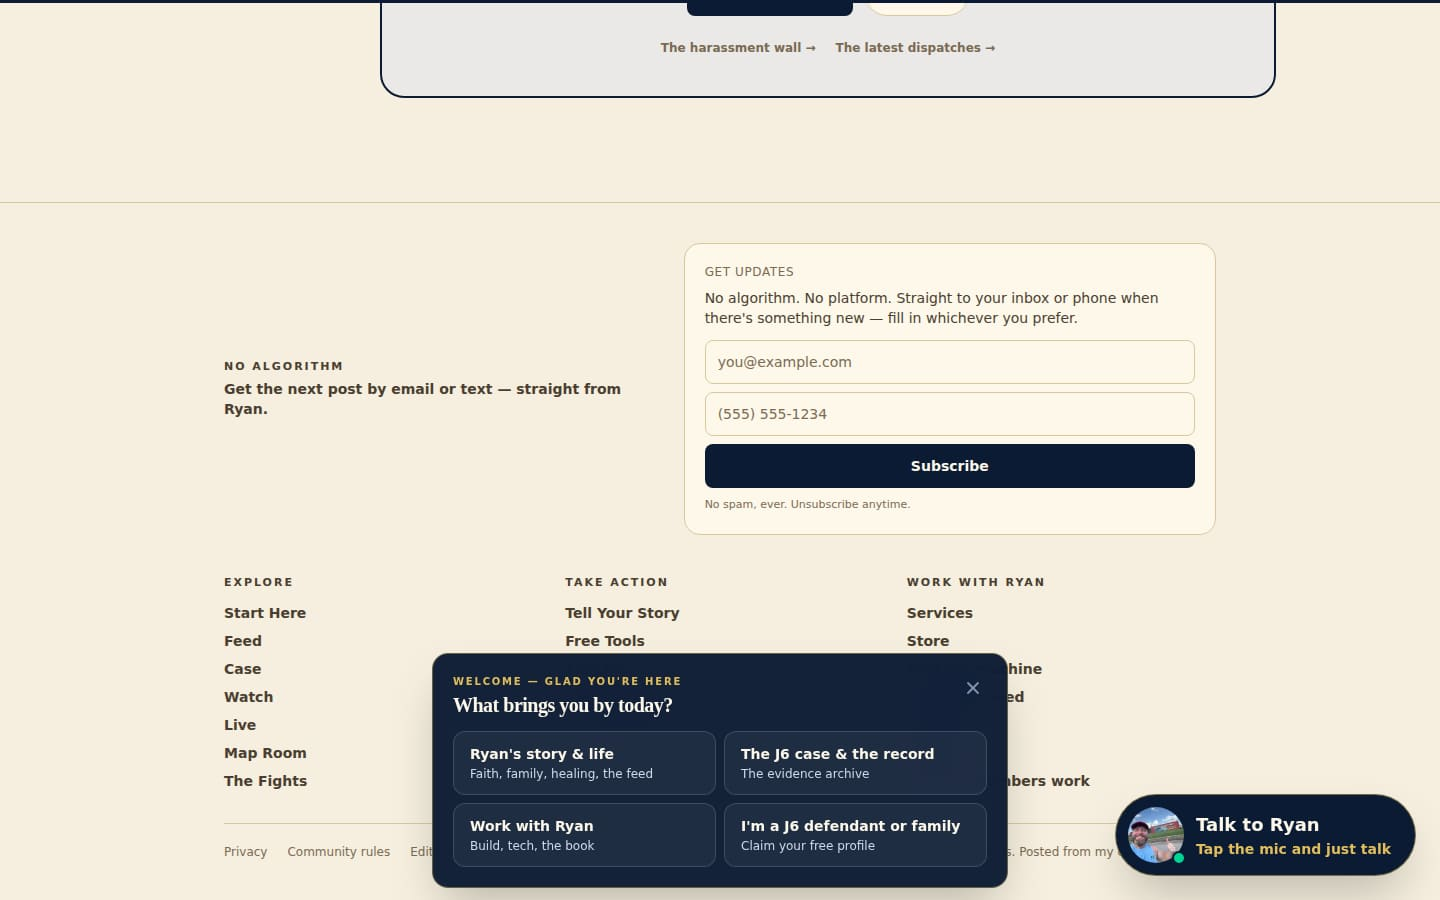
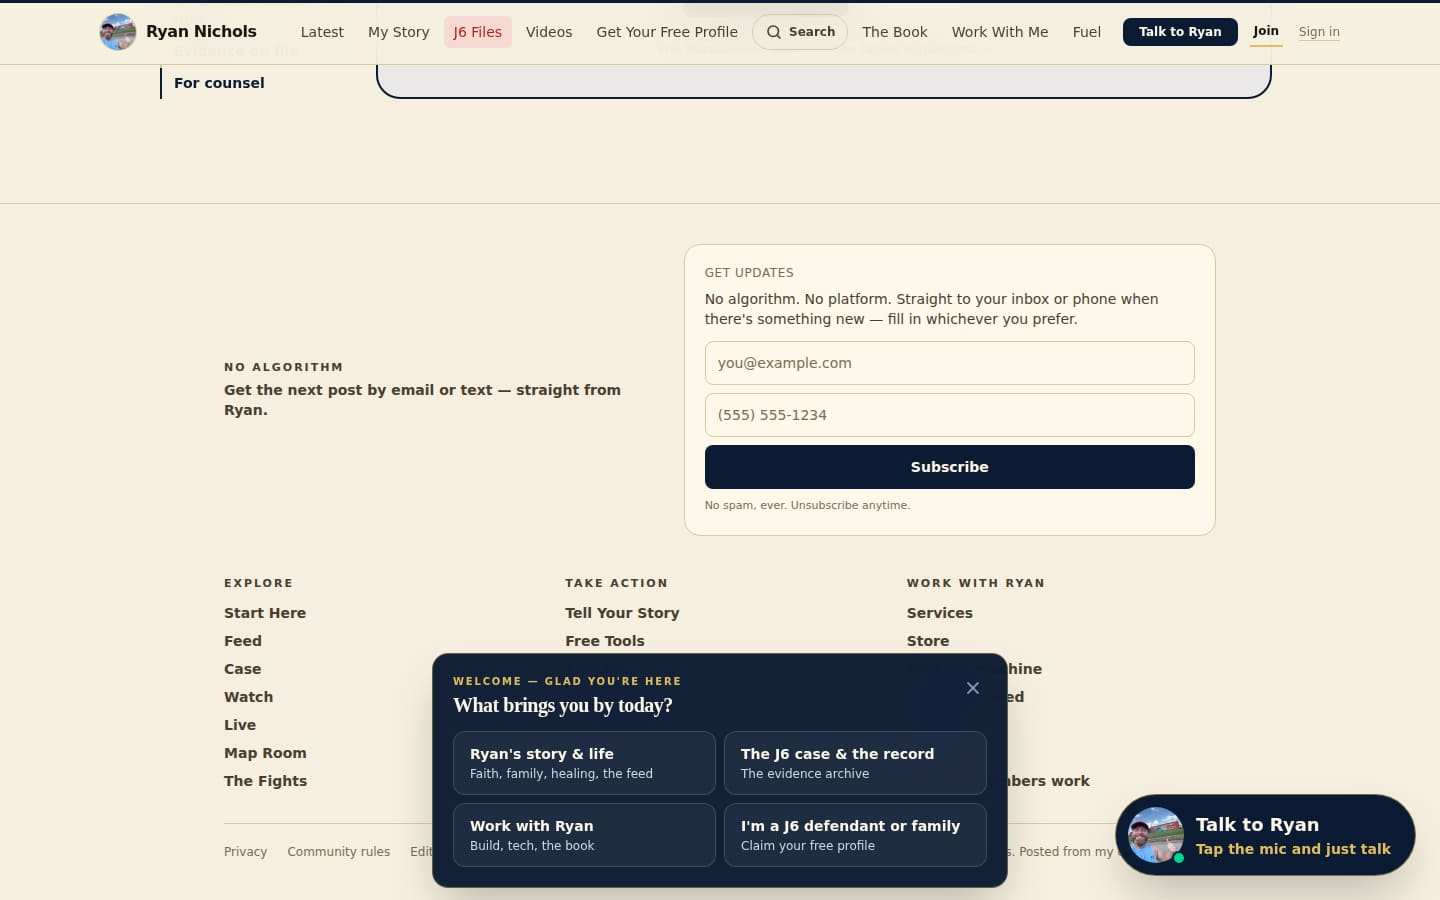
Move 3 review fixes: sticky actually sticks, nav matches the page, one eyebrow
- app/globals.css: `overflow-x: hidden` on html/body and main turned them
  into scroll containers, so every position: sticky on the site (the
  header, the new chapter rail) stuck to nothing. Add `overflow-x: clip`
  after each `hidden` (hidden stays as the fallback). Measured after a
  1,500px scroll: header 0, rail 96 (were -1467 / -1306).
- CaseChapterNav: `chapters` prop so the page passes exactly the stops it
  rendered (Chapter Four is conditional on titled dispatches); `relative`
  on the chip row so offsetLeft is measured against the row; the chip
  auto-scroll honors prefers-reduced-motion.
- Eyebrow: `tone` (navy | blue | cream) so the blue cards and the navy
  band use the shared component too; the facilities label and the
  evidence section header use Eyebrow / ChapterHeader; Chapter Three's
  label reuses the formatted day count; the split paragraph sits as a
  note under the subtitle.
- Chapter Two subtitle: "with the paper linked where the archive has it"
  (the previous wording implied entries without a link have no paper).
- Drop the no-op lg:justify-center on the article grid.
- docs/qa/case/move-3/: refreshed after-shots.

Claude-Session: https://claude.ai/code/session_013yY82UKXnA5A6346PxQm9y

diff --git a/website/components/RyanCaseProfile.tsx b/website/components/RyanCaseProfile.tsx
@@ -10,6 +10,7 @@ import { CaseStats } from "@/components/CaseStats";
 import { CaseHero } from "@/components/case/CaseHero";
 import { CaseStatCards } from "@/components/case/CaseStatCards";
 import { CaseChapterNav } from "@/components/case/CaseChapterNav";
+import { CASE_CHAPTERS } from "@/components/case/chapters";
 import { ChapterHeader, Eyebrow } from "@/components/case/ChapterHeader";
 import { EvidenceGrid } from "@/components/EvidenceGrid";
 import { ReactionBar } from "@/components/ReactionBar";
@@ -73,6 +74,12 @@ export function RyanCaseProfile({
   rail?: React.ReactNode;
 }) {
   const titledPosts = posts.filter((p) => p.title && p.title.trim()).slice(0, 6);
+  // Chapter Four only renders when there are titled dispatches; the nav
+  // gets exactly the stops the page renders.
+  const chapters =
+    titledPosts.length > 0
+      ? CASE_CHAPTERS
+      : CASE_CHAPTERS.filter((c) => c.id !== "chapter-four");
 
   // Structured data: extend the site-wide Person entity (declared in the root
   // layout by @id) with case-specific detail, mark this page as his profile,
@@ -183,10 +190,10 @@ export function RyanCaseProfile({
     // From lg up the story gets a spine: a sticky chapter rail in a narrow
     // left column, the record in the right. Below lg the rail is gone and
     // the chip row under the hero carries the chapters instead.
-    <article className="mx-auto max-w-4xl px-4 py-10 lg:grid lg:max-w-6xl lg:grid-cols-[11rem_minmax(0,56rem)] lg:justify-center lg:gap-10">
+    <article className="mx-auto max-w-4xl px-4 py-10 lg:grid lg:max-w-6xl lg:grid-cols-[11rem_minmax(0,56rem)] lg:gap-10">
       <aside className="hidden lg:block">
         <div className="sticky top-24">
-          <CaseChapterNav variant="rail" />
+          <CaseChapterNav variant="rail" chapters={chapters} />
         </div>
       </aside>
 
@@ -216,7 +223,7 @@ export function RyanCaseProfile({
       {/* The spine on a phone: the chapters as a scrollable chip row, in
           flow under the hero. The desktop rail lives in the left column. */}
       <div className="mt-5 lg:hidden">
-        <CaseChapterNav variant="chips" />
+        <CaseChapterNav variant="chips" chapters={chapters} />
       </div>
 
       {/* The two doors as the return rail, when this page is /case itself. */}
@@ -409,9 +416,7 @@ export function RyanCaseProfile({
 
         {/* Recognition */}
         <div className="mt-8 rounded-2xl border-2 border-[var(--color-blue)] bg-[var(--color-blue-soft)] p-5 sm:p-6">
-          <p className="text-[11px] uppercase tracking-[0.2em] text-[var(--color-blue)] font-bold">
-            Recognized for the rescues
-          </p>
+          <Eyebrow tone="blue">Recognized for the rescues</Eyebrow>
           <div className="mt-3 flex flex-wrap gap-2">
             {RECOGNITION.map((r) => (
               <Link
@@ -452,7 +457,7 @@ export function RyanCaseProfile({
           n="Two"
           label="The case, start to finish"
           title="Arrested. Convicted. Pardoned."
-          subtitle="From the arrest in the Eastern District of Texas to the dismissal with prejudice, in order, with the paper where it exists."
+          subtitle="From the arrest in the Eastern District of Texas to the dismissal with prejudice, in order, with the paper linked where the archive has it."
         />
         <ol className="mt-5 relative border-l-2 border-[var(--color-line)] ml-3 space-y-5">
           {[
@@ -530,11 +535,11 @@ export function RyanCaseProfile({
       <section id="chapter-three" className="mt-12 scroll-mt-24 border-t-2 border-[var(--color-line)] pt-10">
         <ChapterHeader
           n="Three"
-          label={`The detention record — ${totals.daysArrestToPardon.toLocaleString("en-US")} days, arrest to pardon`}
+          label={`The detention record — ${days} days, arrest to pardon`}
           title="Not memoir. Paper."
           subtitle="What happened between arrest and pardon is not a story he tells — it is a file he built, one exhibit at a time, from inside."
         />
-        <p className="mt-2 text-sm text-[var(--color-ink-soft)] max-w-2xl leading-relaxed">
+        <p className="mt-3 text-sm text-[var(--color-ink-soft)] max-w-2xl leading-relaxed">
           Every entry below
           carries an exhibit number from the master archive or lives in the{" "}
           <Link href="/case?view=documents" className="text-[var(--color-navy)] font-semibold hover:underline">
@@ -668,9 +673,7 @@ export function RyanCaseProfile({
         </div>
 
         <div className="mt-6 rounded-2xl bg-[var(--color-surface-2)] p-4 sm:p-5">
-          <p className="text-[10px] uppercase tracking-wider font-bold text-[var(--color-navy)]">
-            The {totals.facilities} facilities, as he lists them
-          </p>
+          <Eyebrow>The {totals.facilities} facilities, as he lists them</Eyebrow>
           <div className="mt-2 flex flex-wrap gap-1.5">
             {[
               "Tyler, TX (E.D. Tex.)",
@@ -702,9 +705,7 @@ export function RyanCaseProfile({
 
         {/* Statement intake — the archive grows one account at a time. */}
         <div className="mt-8 rounded-2xl bg-[var(--color-navy)] p-6 sm:p-8 text-[#fdf8ea]">
-          <p className="text-[11px] uppercase tracking-[0.2em] font-bold text-[#8194b4]">
-            Statement intake
-          </p>
+          <Eyebrow tone="cream">Statement intake</Eyebrow>
           <h3 className="mt-1 text-2xl sm:text-3xl font-bold tracking-tight font-display text-[#fdf8ea]">
             Were you there? The archive has room for your statement.
           </h3>
@@ -802,28 +803,32 @@ export function RyanCaseProfile({
 
       {/* ---- Evidence on file ---- */}
       <section id="evidence" className="mt-12 scroll-mt-24 border-t border-[var(--color-line)] pt-8">
-        <div className="border-l-2 border-[var(--color-navy)] pl-4 mb-5">
-          <Eyebrow>Evidence on file</Eyebrow>
-          <h2 className="text-lg sm:text-xl font-bold tracking-tight">
-            {evidence.length === 0
-              ? "Linked from the wider record"
-              : "The documents that name him directly"}
-          </h2>
-          <p className="text-sm text-[var(--color-ink-soft)] mt-1 max-w-2xl">
-            {evidence.length > EVIDENCE_SAMPLE
-              ? `A sample of ${EVIDENCE_SAMPLE} from the ${evidence.length.toLocaleString()} documents that name him directly. `
-              : ""}
-            His name runs through the whole case file —{" "}
-            {totals.documents.toLocaleString()} documents,{" "}
-            {totals.ryanFiledGrievances.toLocaleString()} grievance forms in his own hand,{" "}
-            {totals.grievances} documented grievance patterns, {totals.facilities} facilities.{" "}
-            <Link href="/case?view=documents" className="text-[var(--color-navy)] font-semibold hover:underline">
-              Walk the full record →
-            </Link>
-          </p>
+        <div className="mb-5">
+          <ChapterHeader
+            label="Evidence on file"
+            title={
+              evidence.length === 0
+                ? "Linked from the wider record"
+                : "The documents that name him directly"
+            }
+            subtitle={
+              <>
+                {evidence.length > EVIDENCE_SAMPLE
+                  ? `A sample of ${EVIDENCE_SAMPLE} from the ${evidence.length.toLocaleString()} documents that name him directly. `
+                  : ""}
+                His name runs through the whole case file —{" "}
+                {totals.documents.toLocaleString()} documents,{" "}
+                {totals.ryanFiledGrievances.toLocaleString()} grievance forms in his own hand,{" "}
+                {totals.grievances} documented grievance patterns, {totals.facilities} facilities.{" "}
+                <Link href="/case?view=documents" className="text-[var(--color-navy)] font-semibold hover:underline">
+                  Walk the full record →
+                </Link>
+              </>
+            }
+          />
           <Link
             href="/case?view=documents"
-            className="btn-accent mt-3 inline-flex items-center px-5 py-2.5 text-sm"
+            className="btn-accent mt-4 inline-flex items-center px-5 py-2.5 text-sm"
           >
             Open all {totals.documents.toLocaleString()} documents →
           </Link>
@@ -1080,9 +1085,7 @@ function AttorneyBriefing() {
 
       {/* Live issues, each linked to the filed motion */}
       <div className="mt-7">
-        <p className="text-[11px] uppercase tracking-[0.2em] text-[var(--color-blue)] font-bold">
-          Live legal issues · with the filed motion
-        </p>
+        <Eyebrow tone="blue">Live legal issues · with the filed motion</Eyebrow>
         <div className="mt-3 grid gap-2.5 sm:grid-cols-2">
           {issues.map((it) => (
             <Link
@@ -1107,9 +1110,7 @@ function AttorneyBriefing() {
 
       {/* Contact — attorneys */}
       <div className="mt-7 rounded-2xl border-2 border-[var(--color-blue)] bg-[var(--color-paper)] p-5">
-        <p className="text-[11px] uppercase tracking-[0.2em] text-[var(--color-blue)] font-bold">
-          Attorneys — reach me directly
-        </p>
+        <Eyebrow tone="blue">Attorneys — reach me directly</Eyebrow>
         <p className="mt-2 text-sm text-[var(--color-ink-soft)] leading-relaxed max-w-2xl">
           If you practice criminal defense, First Amendment, or civil-rights litigation
           and want the full private briefing, contact me. I can send the complete

diff --git a/website/components/case/CaseChapterNav.tsx b/website/components/case/CaseChapterNav.tsx
@@ -19,7 +19,15 @@ function label(c: (typeof CASE_CHAPTERS)[number]): string {
   return c.n ? `${CHAPTER_ORDINAL[c.n]} · ${c.short}` : c.short;
 }
 
-export function CaseChapterNav({ variant }: { variant: "rail" | "chips" }) {
+export function CaseChapterNav({
+  variant,
+  chapters = CASE_CHAPTERS,
+}: {
+  variant: "rail" | "chips";
+  // The page passes the stops it actually rendered, so the nav never links
+  // to a section that is not on the page (Chapter Four is conditional).
+  chapters?: readonly (typeof CASE_CHAPTERS)[number][];
+}) {
   const [current, setCurrent] = useState<string | null>(null);
   const scroller = useRef<HTMLElement | null>(null);
 
@@ -28,7 +36,7 @@ export function CaseChapterNav({ variant }: { variant: "rail" | "chips" }) {
     const update = () => {
       raf = 0;
       let active: string | null = null;
-      for (const c of CASE_CHAPTERS) {
+      for (const c of chapters) {
         const el = document.getElementById(c.id);
         if (el && el.getBoundingClientRect().top <= READING_LINE) active = c.id;
       }
@@ -45,14 +53,18 @@ export function CaseChapterNav({ variant }: { variant: "rail" | "chips" }) {
       window.removeEventListener("resize", onScroll);
       if (raf) window.cancelAnimationFrame(raf);
     };
-  }, []);
+  }, [chapters]);
 
   // Keep the active chip in view — scroll the row only, never the page.
   useEffect(() => {
     if (variant !== "chips" || !current || !scroller.current) return;
     const chip = scroller.current.querySelector<HTMLElement>(`[data-chip="${current}"]`);
     if (!chip) return;
-    scroller.current.scrollTo({ left: Math.max(0, chip.offsetLeft - 16), behavior: "smooth" });
+    const reduce = window.matchMedia("(prefers-reduced-motion: reduce)").matches;
+    scroller.current.scrollTo({
+      left: Math.max(0, chip.offsetLeft - 16),
+      behavior: reduce ? "auto" : "smooth",
+    });
   }, [current, variant]);
 
   if (variant === "rail") {
@@ -62,7 +74,7 @@ export function CaseChapterNav({ variant }: { variant: "rail" | "chips" }) {
           The chapters
         </p>
         <ol className="mt-3 border-l-2 border-[var(--color-line)]">
-          {CASE_CHAPTERS.map((c) => {
+          {chapters.map((c) => {
             const active = current === c.id;
             return (
               <li key={c.id}>
@@ -90,10 +102,10 @@ export function CaseChapterNav({ variant }: { variant: "rail" | "chips" }) {
     <nav
       ref={scroller}
       aria-label="Chapters"
-      className="-mx-4 overflow-x-auto px-4 [scrollbar-width:none] [&::-webkit-scrollbar]:hidden"
+      className="relative -mx-4 overflow-x-auto px-4 [scrollbar-width:none] [&::-webkit-scrollbar]:hidden"
     >
       <ol className="flex w-max gap-2 py-1">
-        {CASE_CHAPTERS.map((c) => {
+        {chapters.map((c) => {
           const active = current === c.id;
           return (
             <li key={c.id}>

diff --git a/website/components/case/ChapterHeader.tsx b/website/components/case/ChapterHeader.tsx
@@ -3,16 +3,26 @@ import type { ReactNode } from "react";
 // The one eyebrow every section of the case page uses: 11px, uppercase,
 // tracked, navy. Before this there were a dozen hand-copied versions of the
 // same three classes across the page; change it here, it changes everywhere.
+const EYEBROW_TONE = {
+  navy: "text-[var(--color-navy)]",
+  // The blue cards (recognition, attorney briefing) carry blue ink.
+  blue: "text-[var(--color-blue)]",
+  // On the navy bands: the muted steel the site has always used there.
+  cream: "text-[#8194b4]",
+} as const;
+
 export function Eyebrow({
   children,
+  tone = "navy",
   className = "",
 }: {
   children: ReactNode;
+  tone?: keyof typeof EYEBROW_TONE;
   className?: string;
 }) {
   return (
     <p
-      className={`text-[11px] font-bold uppercase tracking-[0.2em] text-[var(--color-navy)] ${className}`}
+      className={`text-[11px] font-bold uppercase tracking-[0.2em] ${EYEBROW_TONE[tone]} ${className}`}
     >
       {children}
     </p>

diff --git a/website/app/globals.css b/website/app/globals.css
@@ -70,7 +70,13 @@
     text-rendering: optimizeLegibility;
     width: 100%;
     max-width: 100%;
+    /* `hidden` turns body into a scroll container, which makes every
+       position: sticky inside it (the site header, the /case chapter rail)
+       stick to nothing. `clip` blocks horizontal overflow without creating
+       a scroll container; `hidden` stays as the fallback for engines that
+       lack `clip`. */
     overflow-x: hidden;
+    overflow-x: clip;
   }
 
   *,
@@ -83,6 +89,7 @@
     min-width: 0;
     max-width: 100%;
     overflow-x: hidden;
+    overflow-x: clip;
   }
 
   :where(header, footer, nav, main, section, article, aside, div, ul, ol, li, label, form, fieldset) {
